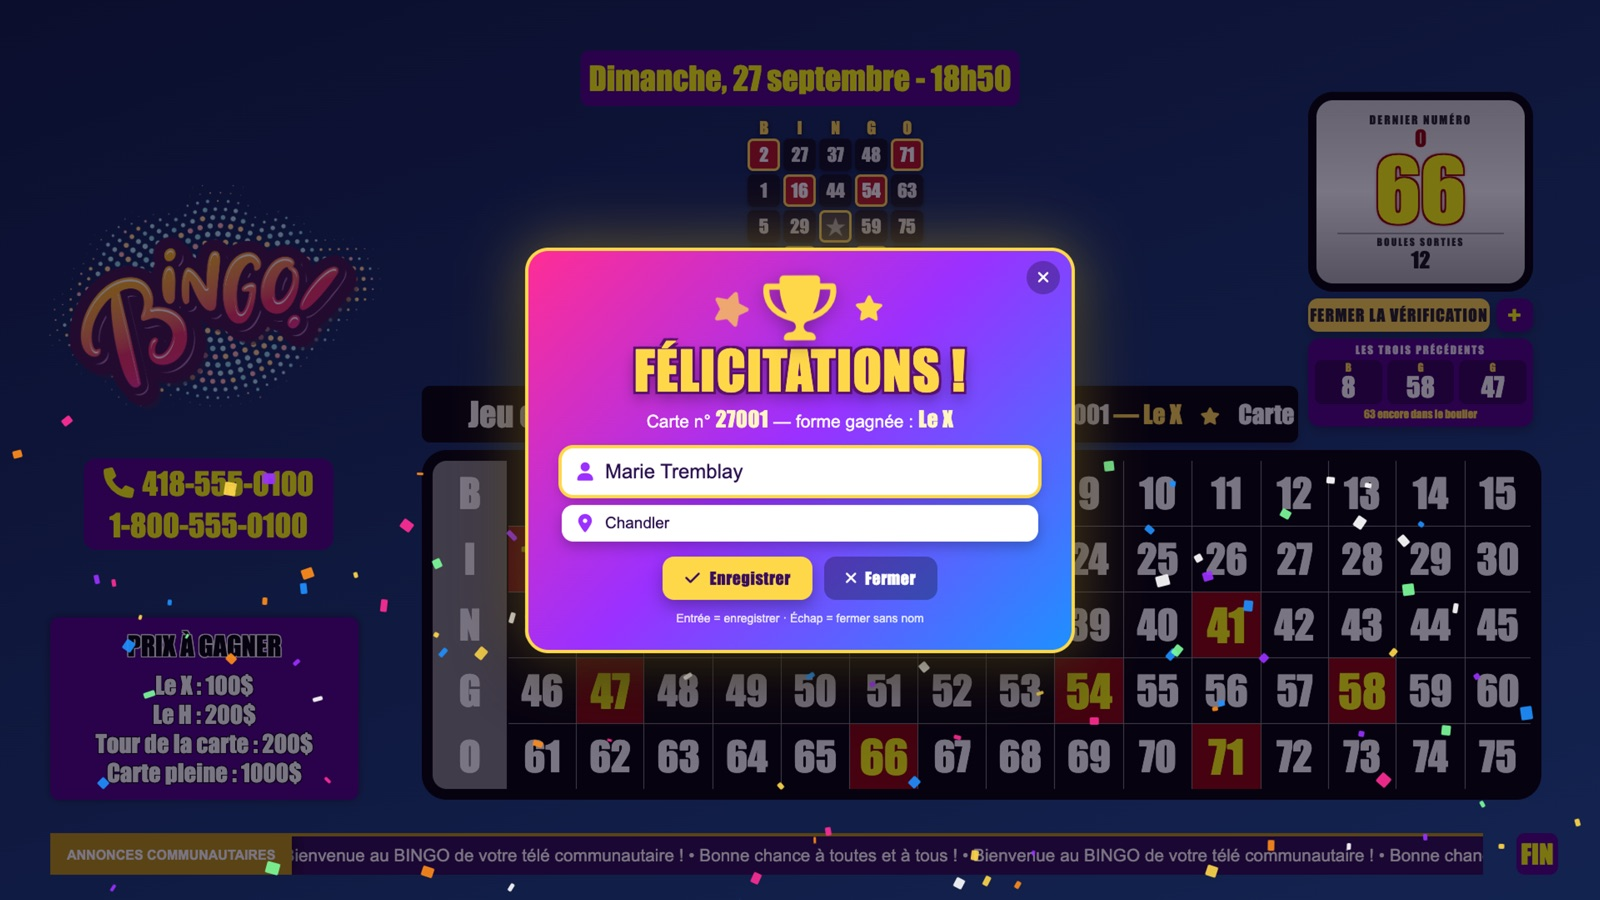
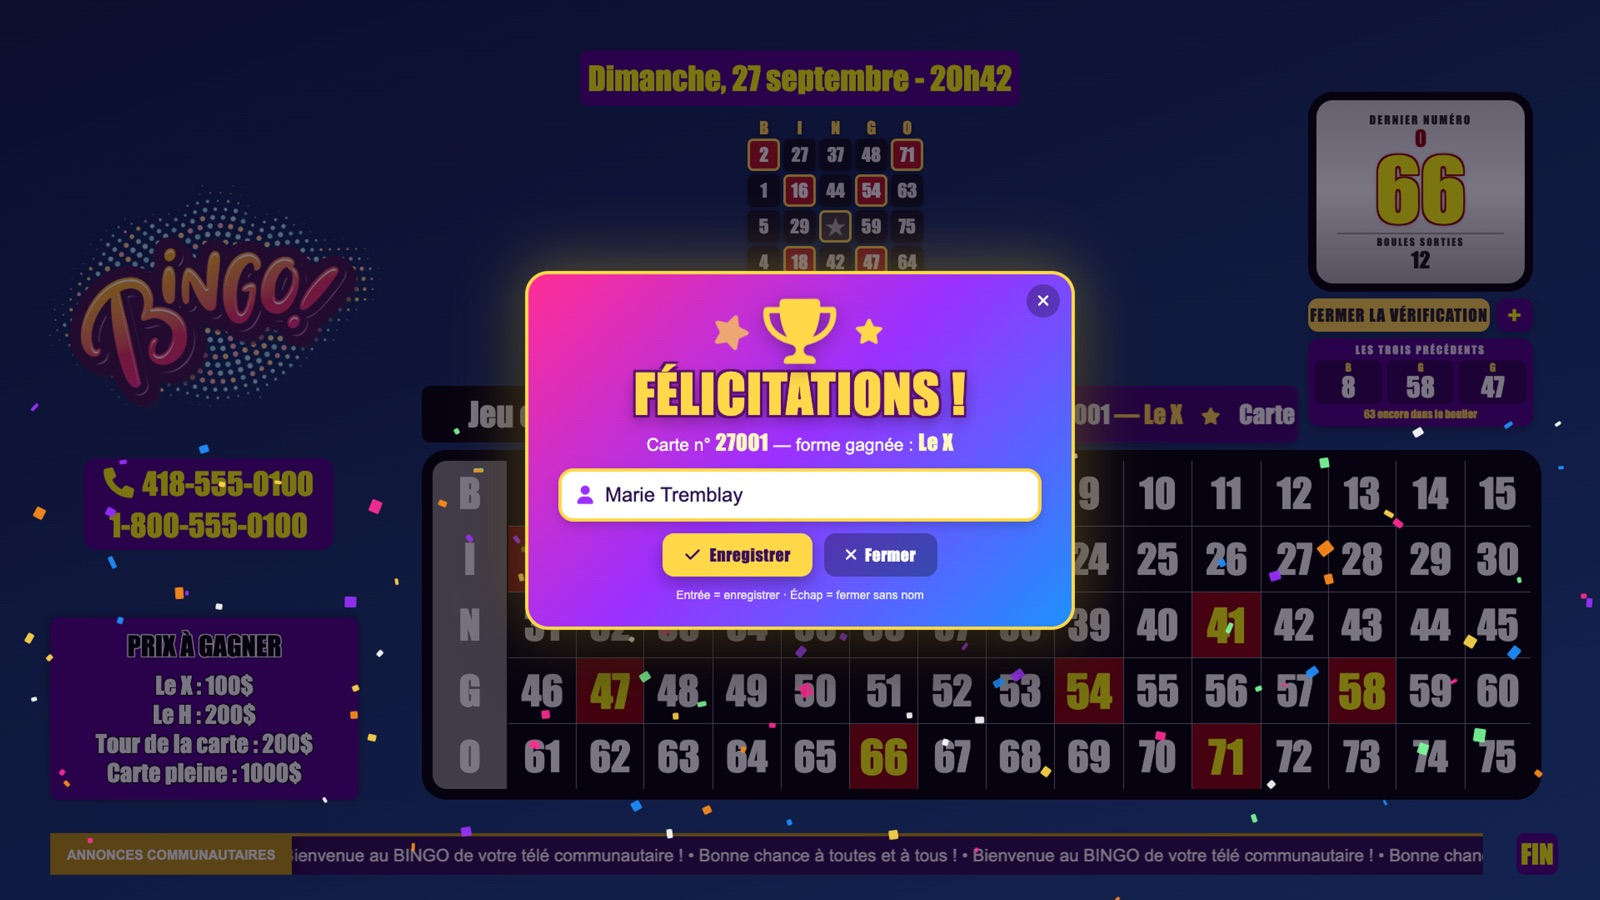
Version 2.29 : classeurs de vérification, bandeau GAGNANTS en couleur, sans ville, nouvelles captures

diff --git a/index.html b/index.html
@@ -43,7 +43,7 @@
         À l'écran, par contre, <strong>ton bingo a l'air d'une vraie émission</strong> —
         et une carte gagnante se <strong>vérifie en quelques secondes, en direct</strong>.
       </p>
-      <span class="pastille">Version d'essai 2.28 · Mac et PC (Windows)</span>
+      <span class="pastille">Version d'essai 2.29 · Mac et PC (Windows)</span>
       <span class="pastille pastille-arrow">Compatible avec les cartes de bingo papier Arrow Games</span>
       <div class="boutons">
         <a class="bouton bouton-fort" href="#telecharger">Télécharger gratuitement</a>
@@ -60,7 +60,7 @@
       </a>
 
       <figure class="capture-heros">
-        <img src="images/jeu.jpg?v=228" width="1600" height="900"
+        <img src="images/jeu.jpg?v=229" width="1600" height="900"
              alt="L'écran d'antenne : le tableau de 1 à 75 avec les numéros sortis en rouge, le dernier numéro en grand,
                   les trois précédents, la forme en cours, les prix à gagner, les numéros de téléphone,
                   le bandeau d'annonces et la zone bleue où s'incruste l'animateur.">
@@ -130,7 +130,7 @@
         d'activer ou d'enlever un numéro par erreur. On referme la vérification, et le jeu continue.
       </p>
       <figure class="apercu">
-        <img src="images/verification.jpg?v=228" width="1600" height="900" loading="lazy"
+        <img src="images/verification.jpg?v=229" width="1600" height="900" loading="lazy"
              alt="Deux cartes vérifiées à l'écran à la place de la zone de l'animateur : la carte 27001,
                   gagnante pour le X, et la carte 31415, à qui il manque 7 numéros.">
         <figcaption>
@@ -141,12 +141,12 @@
         </figcaption>
       </figure>
       <figure class="apercu">
-        <img src="images/gagnant.jpg?v=228" width="1600" height="900" loading="lazy"
+        <img src="images/gagnant.jpg?v=229" width="1600" height="900" loading="lazy"
              alt="La fenêtre Félicitations : trophée, confettis, carte 27001, forme gagnée Le X,
-                  champs Nom du gagnant et Ville, boutons Enregistrer et Fermer.">
+                  champ Nom du gagnant, boutons Enregistrer et Fermer.">
         <figcaption>
           Carte gagnante : une fenêtre <strong>« Félicitations »</strong> s'ouvre pour inscrire le
-          <strong>nom</strong> (et la ville) du gagnant. Entrée pour enregistrer, Échap pour fermer.
+          <strong>nom</strong> du gagnant. Entrée pour enregistrer, Échap pour fermer.
           Tu préfères t'en passer ? Une case à décocher dans les paramètres.
         </figcaption>
       </figure>
@@ -226,7 +226,7 @@
       </div>
 
       <p class="petit" style="margin-top:22px">
-        Ta télé utilise d'autres cartes ? <a href="#contribution">Envoie-nous le PDF de tes cartes</a> :
+        Ta télé utilise d'autres cartes ? <a href="#contribution">Envoie-nous le PDF de ton classeur de vérification</a> :
         on les ajoutera au logiciel, pour toutes les télés.
       </p>
     </div>
@@ -244,12 +244,12 @@
         <a class="telechargement" href="https://github.com/bingoTCA/bingo-habillage-tv/releases/latest/download/BINGO-Habillage-TV-mac.dmg">
           <span class="tele-titre">Mac</span>
           <span class="tele-detail">Mac avec puce Apple (M1, M2, M3, M4) · macOS 13 Ventura ou plus récent</span>
-          <span class="tele-etat">Télécharger la version 2.28 · 165 Mo</span>
+          <span class="tele-etat">Télécharger la version 2.29 · 164 Mo</span>
         </a>
         <a class="telechargement" href="https://github.com/bingoTCA/bingo-habillage-tv/releases/latest/download/BINGO-Habillage-TV-windows.exe">
           <span class="tele-titre">PC (Windows)</span>
           <span class="tele-detail">Windows 10 ou 11 (64 bits) · nouveau : dis-moi comment ça se passe sur ton PC</span>
-          <span class="tele-etat">Télécharger la version 2.28 · 148 Mo</span>
+          <span class="tele-etat">Télécharger la version 2.29 · 148 Mo</span>
         </a>
       </div>
       <p class="petit" style="margin-top:18px">
@@ -509,13 +509,14 @@
       <h2>Essaie-le. Dis-moi. Contribue si ça vaut le coup.</h2>
       <p class="intro">
         BINGO Habillage TV ne se vend pas. Il est né dans une petite télé communautaire de la Gaspésie
-        et il est offert aux autres. En ce moment, <strong>on travaille fort à numériser les cartes
-        papier</strong>, page par page, pour nourrir la base du logiciel. À terme, elle contiendra trois
+        et il est offert aux autres. En ce moment, <strong>on travaille fort à numériser les classeurs
+        (cartables)</strong> qui contiennent les feuillets servant à vérifier les cartes gagnantes, page par
+        page, pour nourrir la base du logiciel. À terme, elle contiendra trois
         séries : <strong>1&nbsp;à&nbsp;9&nbsp;000</strong>, <strong>27&nbsp;001&nbsp;à&nbsp;36&nbsp;000</strong> et <strong>45&nbsp;001&nbsp;à&nbsp;54&nbsp;000</strong>.
       </p>
       <p class="intro">
-        Ta télé communautaire utilise d'autres cartes ? <strong>Scanne ton document et envoie-nous le
-        PDF</strong> : on l'ajoutera au logiciel avec grand plaisir, pour que ça profite à toutes les télés !
+        Ta télé communautaire utilise d'autres cartes ? <strong>Scanne ton classeur de vérification et
+        envoie-nous le PDF</strong> : on l'ajoutera au logiciel avec grand plaisir, pour que ça profite à toutes les télés !
       </p>
       <p class="intro">
         Ta contribution a un but précis : permettre au développeur de <strong>se payer un nouvel
@@ -533,7 +534,7 @@
       </p>
       <div class="boutons">
         <a class="bouton bouton-fort" href="https://ko-fi.com/marcoso77" target="_blank" rel="noopener">Contribuer sur Ko-fi</a>
-        <a class="bouton" href="mailto:marcbert@mailo.com?subject=BINGO%20Habillage%20TV%20—%20le%20PDF%20de%20nos%20cartes">Envoyer le PDF de nos cartes</a>
+        <a class="bouton" href="mailto:marcbert@mailo.com?subject=BINGO%20Habillage%20TV%20—%20le%20PDF%20de%20notre%20classeur">Envoyer le PDF de notre classeur</a>
         <a class="bouton" href="mailto:marcbert@mailo.com?subject=BINGO%20Habillage%20TV%20—%20mes%20commentaires">Envoyer mes commentaires</a>
       </div>
       <p class="petit">
